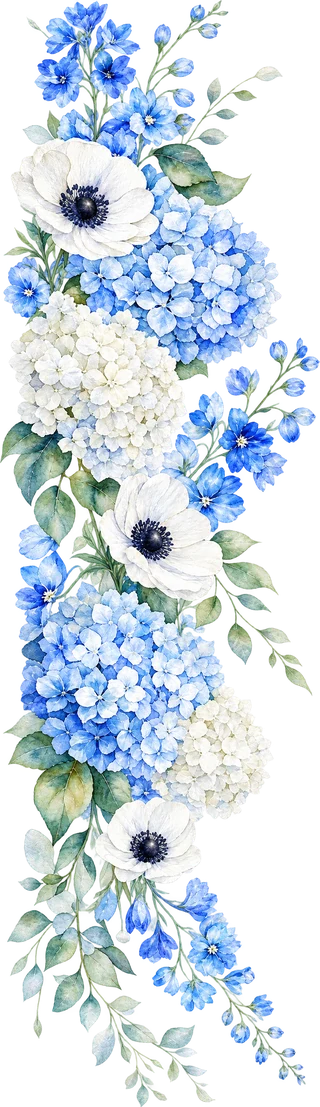
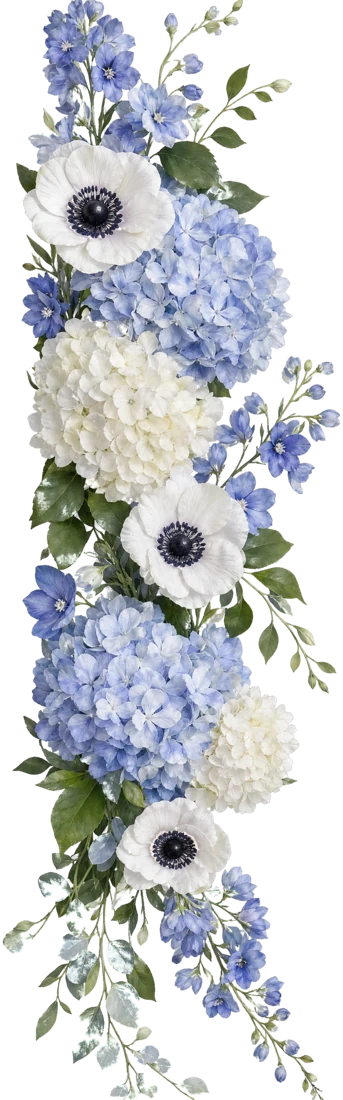
Bordi floreali fotografici: 12 ghirlande di fiori veri (stesse varietà) scontornate con vera trasparenza, pulite su carta chiara e su sfondi scuri

diff --git a/scontorna-fiori.py b/scontorna-fiori.py
@@ -1,0 +1,34 @@
+# Scontorna i bordi floreali fotografici generati su grigio uniforme e salva WEBP trasparenti in public/media/flowers
+# Metodo: distanza di colore dal grigio dello sfondo (misurato sui bordi) -> alfa morbida, poi "decontaminazione" del grigio
+# uso: python3 scontorna-fiori.py classico peonie ...
+import sys, numpy as np
+from PIL import Image
+from scipy import ndimage
+for k in sys.argv[1:]:
+    a = np.asarray(Image.open(f'sorgenti/flowers-real/{k}.png').convert('RGB')).astype(np.float32)
+    h, w, _ = a.shape
+    edge = np.concatenate([a[:, :12].reshape(-1, 3), a[:, -12:].reshape(-1, 3)])
+    bg = np.median(edge, 0)
+    dist = np.sqrt(((a - bg) ** 2).sum(2))
+    sat = a.max(2) - a.min(2)
+    score = np.maximum(dist, sat * 1.4)
+    alpha = np.clip((score - 14) / (42 - 14), 0, 1)
+    # solo le zone collegate alla ghirlanda (via puntini isolati), riempiendo i buchi interni
+    solid = alpha > .5
+    lab, n = ndimage.label(solid)
+    if n:
+        sizes = ndimage.sum(solid, lab, range(1, n + 1))
+        keep = np.isin(lab, [i + 1 for i, s in enumerate(sizes) if s > 400])
+        keep = ndimage.binary_fill_holes(ndimage.binary_dilation(keep, iterations=3))
+        alpha = alpha * ndimage.gaussian_filter(keep.astype(np.float32), 1.2)
+    alpha = ndimage.gaussian_filter(alpha, .6)
+    al = np.clip(alpha, 1e-3, 1)[..., None]
+    rgb = np.clip((a - bg * (1 - al)) / al, 0, 255)
+    out = np.dstack([rgb, alpha * 255]).astype(np.uint8)
+    # taglio stretto attorno alla ghirlanda: così riempie tutta la larghezza del bordo
+    ys, xs = np.where(alpha > .04)
+    x0, x1 = max(0, xs.min() - 6), min(w, xs.max() + 7)
+    out = out[:, x0:x1]
+    im = Image.fromarray(out); im.thumbnail((380, 1100))
+    im.save(f'public/media/flowers/{k}.webp', quality=88, method=6)
+    print('OK', k, im.size, 'sfondo', bg.round())
